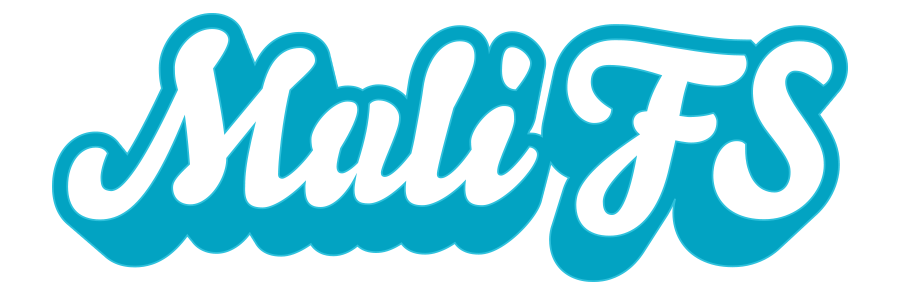
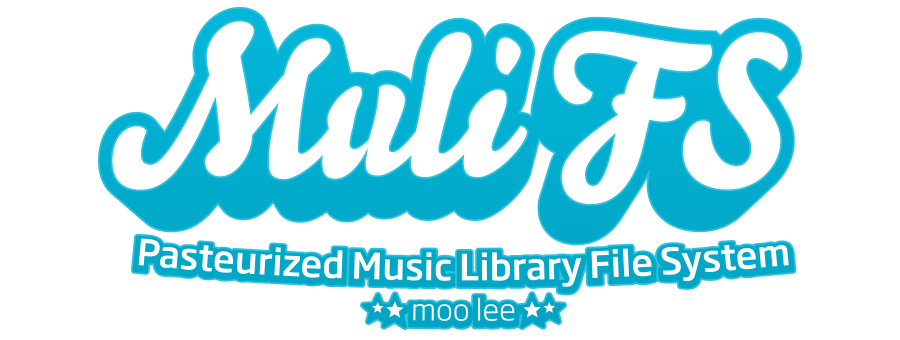
Improve nav, add subtitle to brand & fix blinking ng-show

diff --git a/index.html b/index.html
@@ -88,6 +88,8 @@ libraries and organize the music based on the music file tags.</p>
 <p>It scans a Directory tree and reads all the Tags in the music files and
 generates a Directory structure organizing the songs by Artist and
 Album.</p>
+<br>
+<a href="#quick-start" ng-click="view = 'quick-start'" class="btn floatRight">next</a>
 </div>
 <div ng-show="view == 'quick-start'">
 <h2 id="quick-start"><a id="user-content-quick-start" class="anchor" href="#quick-start" aria-hidden="true">Quick Start</a></h2>
@@ -100,6 +102,8 @@ this work:</p>
 
 <p>Where the MUSIC_SOURCE is the path where the music is stored and
 MOUNTPOINT is the path where MuLi sould be mounted.</p>
+<br>
+<a href="#project-status" ng-click="view = 'project-status'" class="btn floatRight">next</a>
 </div>
 <div ng-show="view == 'project-status'">
 <h2 id="project-status"><a id="user-content-project-status" class="anchor" href="#project-status" aria-hidden="true">Project status</a></h2>
@@ -113,6 +117,8 @@ The basic functionality is ready but some work needs to be done, including:</p>
 <li>Add testing code.</li>
 <li>Test and test!</li>
 </ul>
+<br>
+<a href="#how-it-works" ng-click="view = 'how-it-works'" class="btn floatRight">next</a>
 </div>
 <div ng-show="view == 'how-it-works'">
 <h2 id="how-it-works"><a id="user-content-how-it-works" class="anchor" href="#how-it-works" aria-hidden="true">How it works</a></h2>
@@ -214,6 +220,8 @@ the same Directory structure will be created. Then a playlist will
 contain Artists and Albums folders for every Song inside it. The format
 used in playlists is M3U.</p></li>
 </ol>
+<br>
+<a href="#description-files" ng-click="view = 'description-files'" class="btn floatRight">next</a>
 </div>
 <div ng-show="view == 'description-files'">
 <h2 id="description-files"><a id="user-content-description-files" class="anchor" href="#description-files" aria-hidden="true">Description files</a></h2>
@@ -250,13 +258,16 @@ like this one in the Other_Album folder:</p>
 
 <p>Every special character will be removed, also the dots and the spaces
 are replaced with underscores.</p>
+<br>
+<a href="#requirements" ng-click="view = 'requirements'" class="btn floatRight">next</a>
 </div>
 <div ng-show="view == 'requirements'">
 <h2 id="requirements"><a id="user-content-requirements" class="anchor" href="#requirements" aria-hidden="true">Requirements</a></h2>
-
 <ul>
 <li>A computer running a flavour of *nix</li>
 </ul>
+<br>
+<a href="#dependencies" ng-click="view = 'dependencies'" class="btn floatRight">next</a>
 </div>
 <div ng-show="view == 'dependencies'">
 <h2 id="dependencies"><a id="user-content-dependencies" class="anchor" href="#dependencies" aria-hidden="true">Dependencies</a></h2>
@@ -277,6 +288,8 @@ to store all the information of Songs, Artists and Albums.</p>
 <p>To manage the logs it uses the Glog library for Go.</p>
 
 <p>If you don't know these projects take a look at them!</p>
+<br>
+<a href="#installation-if-you-are-not-familiar-with-go" ng-click="view = 'installation-if-you-are-not-familiar-with-go'" class="btn floatRight">next</a>
 </div>
 <div ng-show="view == 'installation-if-you-are-not-familiar-with-go'">
 <h2 id="installation-if-you-are-not-familiar-with-go"><a id="user-content-installation-if-you-are-not-familiar-with-go" class="anchor" href="#installation-if-you-are-not-familiar-with-go" aria-hidden="true">Installation (if you are not familiar with Go)</a></h2>
@@ -291,6 +304,8 @@ to store all the information of Songs, Artists and Albums.</p>
 
 <pre><code>go get github.com/dankomiocevic/mulifs
 </code></pre>
+<br>
+<a href="#running-muli" ng-click="view = 'running-muli'" class="btn floatRight">next</a>
 </div>
 <div ng-show="view == 'running-muli'">
 <h2 id="running-muli"><a id="user-content-running-muli" class="anchor" href="#running-muli" aria-hidden="true">Running MuLi</a></h2>
@@ -319,6 +334,8 @@ to store all the information of Songs, Artists and Albums.</p>
 <li>v value: log level for V logs</li>
 <li>vmodule value: comma-separated list of pattern=N settings for file-filtered logging</li>
 </ul>
+<br>
+<a href="#license" ng-click="view = 'license'" class="btn floatRight">next</a>
 </div>
 <div ng-show="view == 'license'">
 <h2 id="license"><a id="user-content-license" class="anchor" href="#license" aria-hidden="true">License</a></h2>
@@ -338,7 +355,7 @@ to store all the information of Songs, Artists and Albums.</p>
     	<p>Qiave 2016</p>
     </div>
 </div>
-<div id="menuFixed" ng-show="lateralMenu">
+<div id="menuFixed" ng-show="lateralMenu" ng-cloak>
     <div class="menu" ng-click="lateralMenu = false" >
         <ul>
             <li ng-class="{selected: view == 'mulifs--music-library-filesystem'}"><a href="#mulifs--music-library-filesystem" ng-click="view = 'mulifs--music-library-filesystem'">MuLiFS</a></li>
@@ -354,7 +371,7 @@ to store all the information of Songs, Artists and Albums.</p>
         </ul>
     </div>
 </div>
-<div ng-click="lateralMenu = false" ng-show="lateralMenu" id="blackBG"></div>
+<div ng-click="lateralMenu = false" ng-show="lateralMenu" id="blackBG" ng-cloak></div>
 <script>
   (function(i,s,o,g,r,a,m){i['GoogleAnalyticsObject']=r;i[r]=i[r]||function(){
   (i[r].q=i[r].q||[]).push(arguments)},i[r].l=1*new Date();a=s.createElement(o),

diff --git a/css/style.css b/css/style.css
@@ -4,6 +4,7 @@ body { color: #555; margin: 0; padding: 0; width: 100%; font-family: 'Open Sans'
 ::-webkit-scrollbar-track-piece { background-color: #fff }
 ::-webkit-scrollbar-thumb:vertical { height: 5px; background-color: #ccc; }
 * { -moz-transition: background-color 0.05s ease-in-out; -ms-transition: background-color 0.05s ease-in-out; -o-transition: background-color 0.05s ease-in-out; -webkit-transition: background-color 0.05s ease-in-out; transition: background-color 0.05s ease-in-out; }
+[ng\:cloak], [ng-cloak], .ng-cloak { display: none; }
 a { color: inherit }
 a:hover, a:visited { /* color: inherit */ }
 a, a:hover, a:visited { text-decoration: none; cursor: pointer; }
@@ -59,6 +60,10 @@ body { background-color: #02b3d5 }
 /* */
 .main-header-btn { transition: all 0.4s; padding: 9px 20px 10px; vertical-align: top; cursor: pointer; border: 1px solid rgba(255,255,255,0.2); border-radius: 3px; text-decoration: none; -webkit-tap-highlight-color: transparent; -webkit-animation: fadein 2s; -ms-animation: fadein 2s; animation: fadein 2s; text-shadow: none; color: #fff; background-color: rgba(0,0,0,0.2); font-size: 18px; display: inline-block; text-shadow: 0px 1px 1px rgba(0,0,0,0.4); }
 .main-header-btn:hover { box-shadow: 0 0 50px rgba(255,255,255,0.1); background-color: rgba(0,0,0,0.5); }
+
+.btn{border:1px solid #ddd;padding: 9px 18px;border-radius: 5px;font-weight: 400;display: inline-block;}
+.btn:hover{background-color:#eee}
+.floatRight{float: right;}
 @media screen and (min-width:24em) { 
     #header { height: 328px }
     #header .brand { max-width: 340px }
